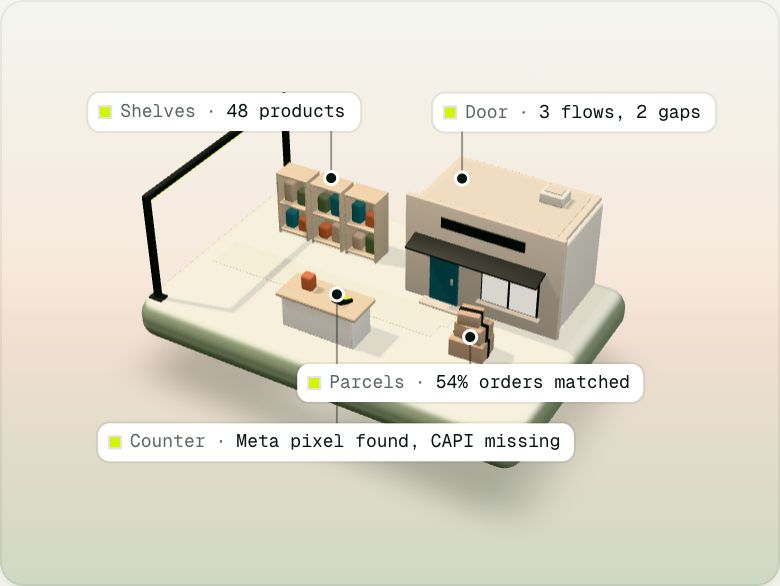
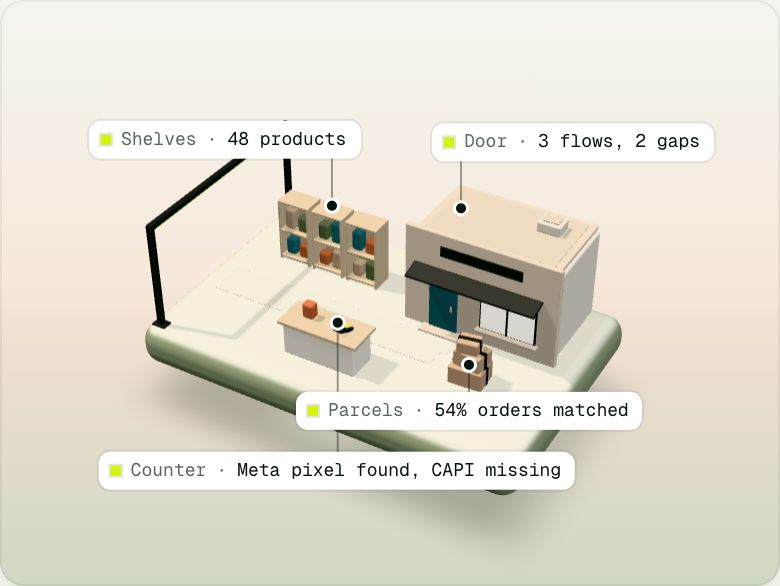
Diorama: shared RoundedBoxGeometry cache, compact small poster
Building ~60 drei RoundedBox extrusions was most of the mount cost (a
161 ms task); blocks now share three's RoundedBoxGeometry per size and
radius (55 ms), which takes desktop Lighthouse TBT from 440 ms to 0.
The 4:3 poster frames the scene lower and farther, with shorter leaders
and smaller pills, so it clears the chip; the chip is smaller below lg.
Posters regenerated.

Changed region(s): [[0.0923, 0.1843, 0.9231, 0.9215]]

diff --git a/src/components/three/Box.tsx b/src/components/three/Box.tsx
@@ -1,15 +1,34 @@
 "use client";
 
-import { RoundedBox } from "@react-three/drei";
 import type { ReactNode } from "react";
+import { BoxGeometry, type BufferGeometry } from "three";
+import { RoundedBoxGeometry } from "three/examples/jsm/geometries/RoundedBoxGeometry.js";
 
 type Vec3 = [number, number, number];
 
+// One geometry per distinct size and radius, shared by every block that
+// uses it. three's RoundedBoxGeometry (a segmented box pushed onto rounded
+// corners) is far cheaper to build than an extruded rounded rectangle, and
+// with ~60 blocks building the geometries was most of the mount cost.
+const cache = new Map<string, BufferGeometry>();
+function geometryFor(size: Vec3, r: number): BufferGeometry {
+  const key = `${size.join(",")}|${r}`;
+  let g = cache.get(key);
+  if (!g) {
+    g =
+      r > 0
+        ? new RoundedBoxGeometry(size[0], size[1], size[2], 2, Math.min(r, ...size.map((s) => s / 2 - 0.001)))
+        : new BoxGeometry(...size);
+    cache.set(key, g);
+  }
+  return g;
+}
+
 /**
  * A matte box sitting with its base at `at` (y is the base, not the
- * centre). Rounded when `r` > 0. Every part of the scene is built from
+ * centre), rounded when `r` > 0. Every part of the scene is built from
  * these, so materials stay consistent: MeshStandardMaterial, metalness 0,
- * roughness around 0.8.
+ * roughness around 0.8. Pass a material as children to override.
  */
 export function Block({
   at,
@@ -30,27 +49,15 @@ export function Block({
   shadow?: boolean;
   children?: ReactNode;
 }) {
-  const position: Vec3 = [at[0], at[1] + size[1] / 2, at[2]];
-  const material = children ?? <meshStandardMaterial color={color} roughness={rough} metalness={0} />;
-  if (r > 0) {
-    return (
-      <RoundedBox
-        args={size}
-        radius={Math.min(r, ...size.map((s) => s / 2 - 0.001))}
-        smoothness={3}
-        position={position}
-        rotation={rotation}
-        castShadow={shadow}
-        receiveShadow
-      >
-        {material}
-      </RoundedBox>
-    );
-  }
   return (
-    <mesh position={position} rotation={rotation} castShadow={shadow} receiveShadow>
-      <boxGeometry args={size} />
-      {material}
+    <mesh
+      geometry={geometryFor(size, r)}
+      position={[at[0], at[1] + size[1] / 2, at[2]]}
+      rotation={rotation}
+      castShadow={shadow}
+      receiveShadow
+    >
+      {children ?? <meshStandardMaterial color={color} roughness={rough} metalness={0} />}
     </mesh>
   );
 }

diff --git a/src/components/three/Diorama.tsx b/src/components/three/Diorama.tsx
@@ -43,6 +43,9 @@ const BASE_EL = 36 * DEG; // and above
 const POINTER_MAX = 3 * DEG;
 const SCROLL_TILT = 6 * DEG;
 const TARGET = new Vector3(0.1, 0.08, 0.05);
+// On a landscape card (the small poster) the scene sits a little lower,
+// clear of the chip.
+const TARGET_WIDE = new Vector3(0.1, 0.42, 0.05);
 
 const easeInOutCubic = (u: number) => (u < 0.5 ? 4 * u * u * u : 1 - Math.pow(-2 * u + 2, 3) / 2);
 
@@ -56,6 +59,7 @@ function Rig({ pointer, scroll, still }: { pointer: RefObject<Pointer>; scroll: 
   const fov = 24 * DEG;
   const hHalf = Math.atan(Math.tan(fov / 2) * aspect);
   const dist = Math.max(2.75 / Math.tan(hHalf), 2.95 / Math.tan(fov / 2));
+  const target = aspect > 1 ? TARGET_WIDE : TARGET;
 
   useFrame((_, dt) => {
     const p = still ? { x: 0, y: 0 } : (pointer.current ?? { x: 0, y: 0 });
@@ -65,12 +69,12 @@ function Rig({ pointer, scroll, still }: { pointer: RefObject<Pointer>; scroll: 
     const k = Math.min(dt, 0.1);
     cur.current.az = still ? az : MathUtils.damp(cur.current.az, az, 3.5, k);
     cur.current.el = still ? el : MathUtils.damp(cur.current.el, el, 3.5, k);
-    camera.position.setFromSphericalCoords(dist, Math.PI / 2 - cur.current.el, cur.current.az).add(TARGET);
+    camera.position.setFromSphericalCoords(dist, Math.PI / 2 - cur.current.el, cur.current.az).add(target);
     if ("fov" in camera && camera.fov !== fov / DEG) {
       camera.fov = fov / DEG;
       camera.updateProjectionMatrix();
     }
-    camera.lookAt(TARGET);
+    camera.lookAt(target);
   });
   return null;
 }

diff --git a/src/app/globals.css b/src/app/globals.css
@@ -548,6 +548,16 @@ section[data-ground="ink"] {
   color: var(--color-ink-2);
   white-space: nowrap;
 }
+@media (max-width: 1023.98px) {
+  .dio-chip {
+    top: 10px;
+    right: 10px;
+    height: 24px;
+    font-size: 10px;
+    gap: 6px;
+    padding-inline: 8px 10px;
+  }
+}
 
 /* A finding: the element's origin is the 3D anchor. The leader (length
    --lead) runs from a dot on the anchor up to the pill (data-place=above)

diff --git a/src/components/HeroDiorama.tsx b/src/components/HeroDiorama.tsx
@@ -184,7 +184,7 @@ export function HeroDiorama() {
             <img
               src="/posters/hero-diorama-m.jpg"
               width={780}
-              height={585}
+              height={586}
               alt=""
               fetchPriority="high"
               data-dio-poster
